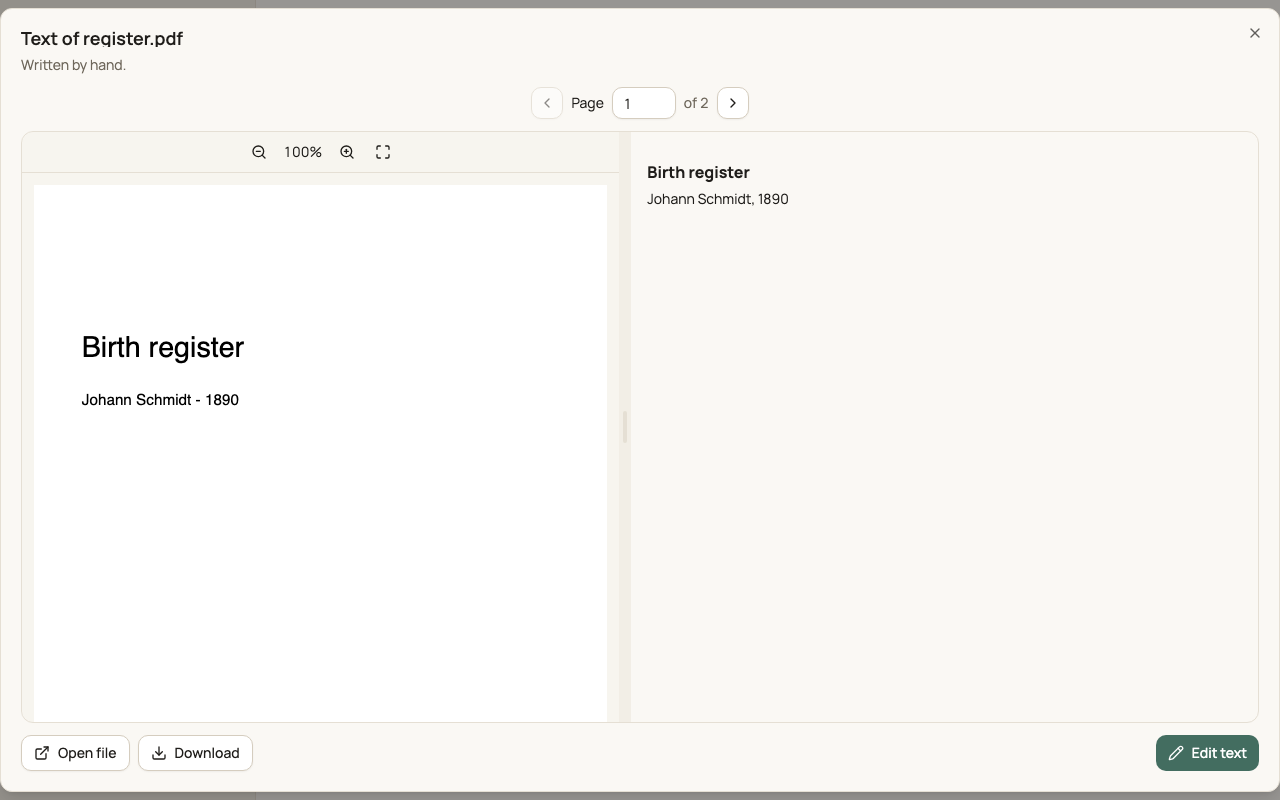
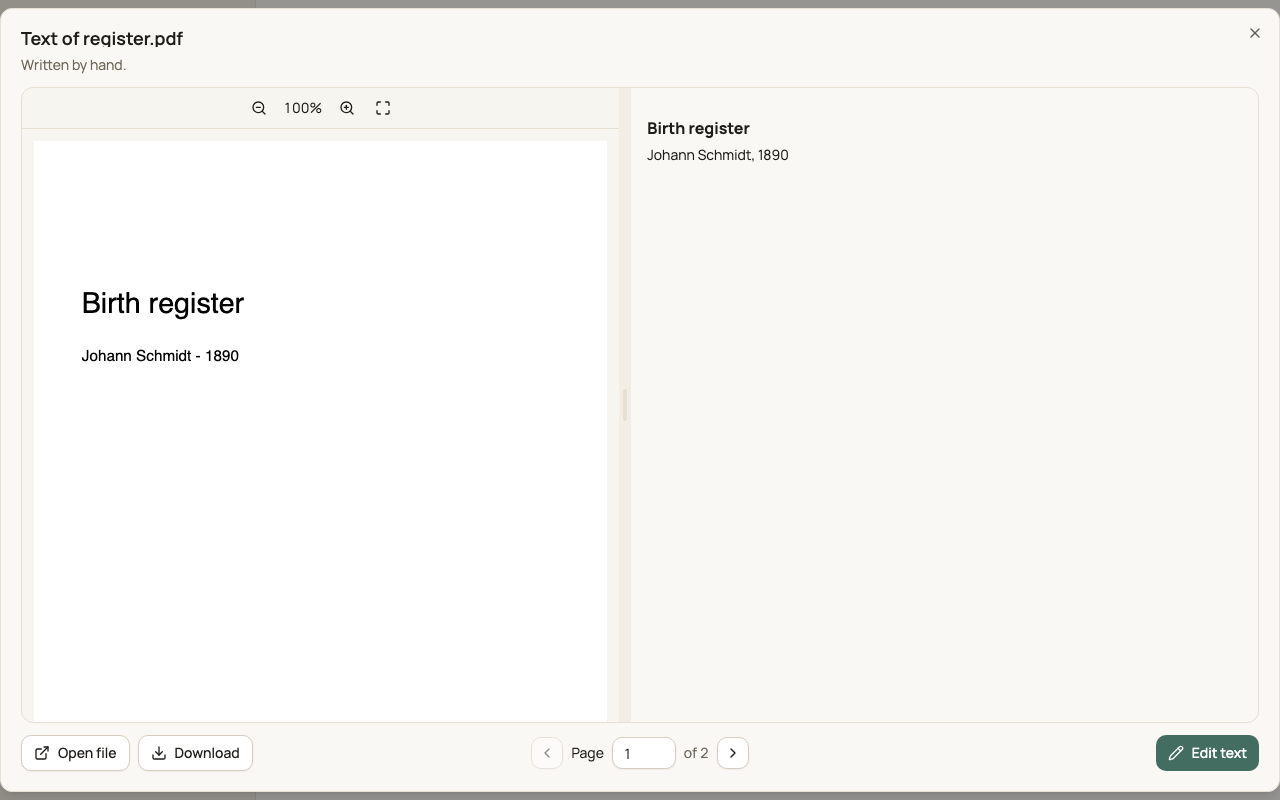
fix(documents): center reader pagination in the footer

diff --git a/frontend/src/components/shared/member-sheet/DocumentFileTextDialog.tsx b/frontend/src/components/shared/member-sheet/DocumentFileTextDialog.tsx
@@ -310,58 +310,6 @@ export const DocumentFileTextDialog = ({
           </div>
         )}
 
-        {isPdf && (
-          <div
-            role="group"
-            aria-label={reader("pages")}
-            className="flex shrink-0 items-center justify-center gap-2"
-          >
-            <Button
-              type="button"
-              size="icon-sm"
-              variant="outline"
-              aria-label={reader("previous")}
-              disabled={page <= 1}
-              onClick={() => setPage((current) => current - 1)}
-            >
-              <ChevronLeft />
-            </Button>
-            <label className="flex items-center gap-2 text-sm">
-              {reader("page")}
-              <Input
-                size="sm"
-                type="number"
-                min={1}
-                max={totalPages}
-                value={page}
-                className="w-16"
-                aria-label={reader("page")}
-                onChange={(event) => {
-                  const value = event.currentTarget.valueAsNumber;
-                  if (
-                    Number.isInteger(value) &&
-                    value >= 1 &&
-                    value <= totalPages
-                  )
-                    setPage(value);
-                }}
-              />
-            </label>
-            <span className="text-sm tabular-nums text-muted-foreground">
-              {reader("of", { count: totalPages })}
-            </span>
-            <Button
-              type="button"
-              size="icon-sm"
-              variant="outline"
-              aria-label={reader("next")}
-              disabled={page >= totalPages}
-              onClick={() => setPage((current) => current + 1)}
-            >
-              <ChevronRight />
-            </Button>
-          </div>
-        )}
         <DocumentReaderSplit
           preview={
             open && (
@@ -406,8 +354,8 @@ export const DocumentFileTextDialog = ({
           )}
         </DocumentReaderSplit>
 
-        <DialogFooter className="shrink-0 gap-2 sm:flex-wrap sm:justify-between [&>div]:flex-wrap">
-          <div className="flex gap-2">
+        <DialogFooter className="grid shrink-0 grid-cols-1 items-center gap-2 md:grid-cols-[minmax(0,1fr)_auto_minmax(0,1fr)]">
+          <div className="order-2 flex flex-wrap justify-center gap-2 md:order-1 md:justify-start">
             <Button type="button" variant="outline" onClick={openFile}>
               <ExternalLink />
               {t("open-file")}
@@ -422,8 +370,60 @@ export const DocumentFileTextDialog = ({
               {fileText("download")}
             </Button>
           </div>
+          {isPdf && (
+            <div
+              role="group"
+              aria-label={reader("pages")}
+              className="order-1 flex items-center justify-center gap-2 md:order-2 md:col-start-2"
+            >
+              <Button
+                type="button"
+                size="icon-sm"
+                variant="outline"
+                aria-label={reader("previous")}
+                disabled={page <= 1}
+                onClick={() => setPage((current) => current - 1)}
+              >
+                <ChevronLeft />
+              </Button>
+              <label className="flex items-center gap-2 text-sm">
+                {reader("page")}
+                <Input
+                  size="sm"
+                  type="number"
+                  min={1}
+                  max={totalPages}
+                  value={page}
+                  className="w-16"
+                  aria-label={reader("page")}
+                  onChange={(event) => {
+                    const value = event.currentTarget.valueAsNumber;
+                    if (
+                      Number.isInteger(value) &&
+                      value >= 1 &&
+                      value <= totalPages
+                    )
+                      setPage(value);
+                  }}
+                />
+              </label>
+              <span className="text-sm tabular-nums text-muted-foreground">
+                {reader("of", { count: totalPages })}
+              </span>
+              <Button
+                type="button"
+                size="icon-sm"
+                variant="outline"
+                aria-label={reader("next")}
+                disabled={page >= totalPages}
+                onClick={() => setPage((current) => current + 1)}
+              >
+                <ChevronRight />
+              </Button>
+            </div>
+          )}
           {editing ? (
-            <div className="flex gap-2">
+            <div className="order-3 flex flex-wrap justify-center gap-2 md:col-start-3 md:justify-end">
               <Button
                 type="button"
                 variant="outline"
@@ -444,7 +444,7 @@ export const DocumentFileTextDialog = ({
           ) : (
             canEdit &&
             !loading && (
-              <div className="flex gap-2">
+              <div className="order-3 flex flex-wrap justify-center gap-2 md:col-start-3 md:justify-end">
                 {canRestore && (
                   <Button
                     type="button"

diff --git a/e2e/tests/document-reader.spec.ts b/e2e/tests/document-reader.spec.ts
@@ -112,6 +112,24 @@ for (const width of [360, 1280]) {
     await expect(
       dialog.getByRole("button", { name: "Previous page" }),
     ).toBeDisabled();
+    const footer = dialog.locator('[data-slot="dialog-footer"]');
+    const pagination = footer.getByRole("group", { name: "Document pages" });
+    await expect(pagination).toBeVisible();
+    const paginationBox = (await pagination.boundingBox())!;
+    const footerBox = (await footer.boundingBox())!;
+    expect(
+      Math.abs(
+        paginationBox.x +
+          paginationBox.width / 2 -
+          (footerBox.x + footerBox.width / 2),
+      ),
+    ).toBeLessThanOrEqual(1);
+    const readerBox = (await dialog
+      .locator('[data-slot="document-reader"]')
+      .boundingBox())!;
+    expect(paginationBox.y).toBeGreaterThanOrEqual(
+      readerBox.y + readerBox.height - 1,
+    );
     const downloadEvent = page.waitForEvent("download");
     await dialog.getByRole("button", { name: "Download", exact: true }).click();
     const download = await downloadEvent;
